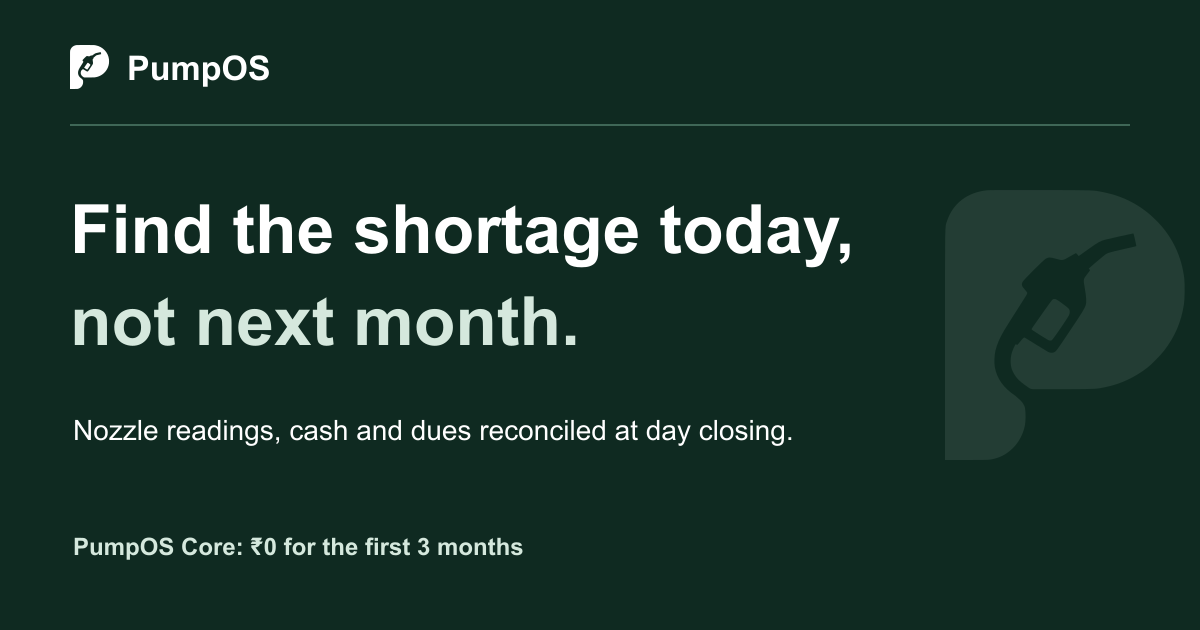
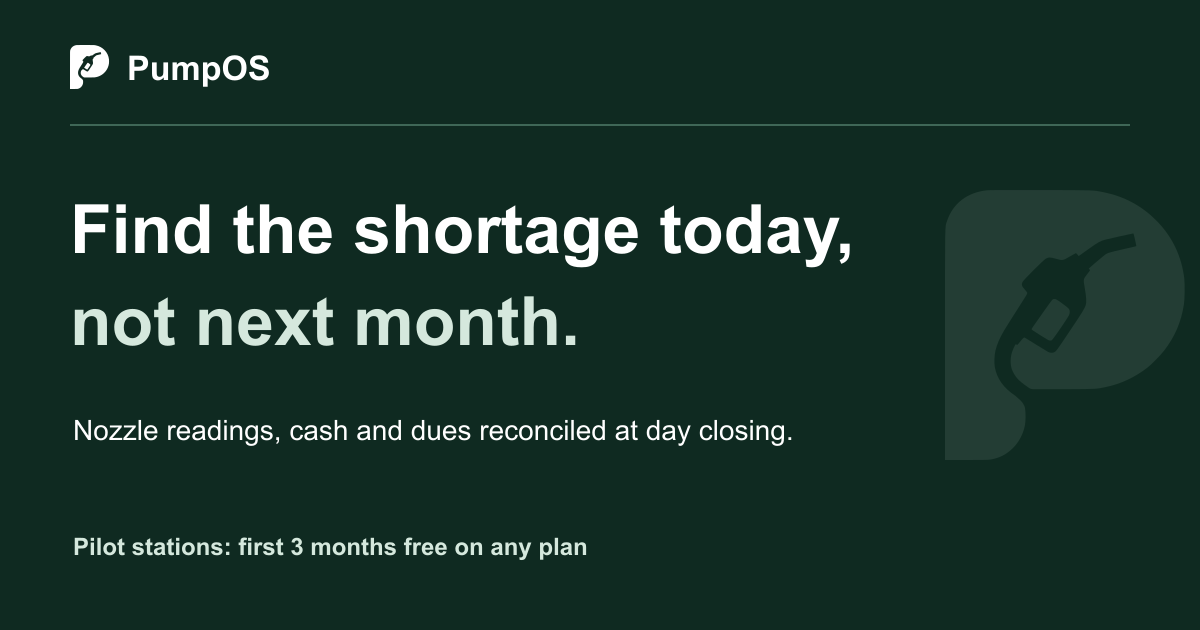
feat(marketing): offer the first 3 months free on any plan to pilot stations

Changed region(s): [[0.0617, 0.8444, 0.4933, 0.9048]]

diff --git a/apps/marketing/src/data/home.ts b/apps/marketing/src/data/home.ts
@@ -85,7 +85,7 @@ export const compareRows: [string, string, string, string][] = [
 ];
 
 export const plans = [
-  { name: 'Core', level: 'core', price: { monthly: 999, yearly: 9990 }, intro: { price: 0, label: 'for your first 3 months', then: 'then' } },
+  { name: 'Core', level: 'core', price: { monthly: 999, yearly: 9990 } },
   { name: 'Pro', level: 'pro', price: { monthly: 1599, yearly: 15990 }, popular: true, footnote: "Pro price may vary with your station's configuration." },
   { name: 'Scale', level: 'scale', price: { monthly: null, yearly: null } },
 ];
@@ -118,6 +118,6 @@ export const faqs: [string, string][] = [
   ["Will it work with my accountant's Tally?", 'Not yet. Tally export is planned. Today you can download shift summaries and the DSR as PDF and send them to your accountant.'],
   ["Is my station's data private?", 'Each station’s records are kept separate from every other customer’s, and each person sees only what their role allows. Your data is yours; you can ask us for a copy at any time.'],
   ['How long does setup take?', 'A few minutes once your tank, nozzle, product and opening-balance details are ready. We do it with you, then stay with your team for the first shift closings.'],
-  ['What does it cost after the first 3 months?', 'Core is ₹999 a month per station, or ₹9,990 a year (two months free). Pro is ₹1,599 a month, which can vary with your station’s setup. Attendants without a login are never counted.'],
+  ['What does it cost after the first 3 months?', 'Pilot stations get the first 3 months free on any plan. After that, Pro is ₹1,599 a month per station, which can vary with your station’s setup. Core is ₹999 a month per station, or ₹9,990 a year (two months free). Attendants without a login are never counted.'],
   ['Does it work for my oil company?', 'Yes. Shifts, readings, drawers and dues work the same at every fuel station. You set up your own tanks, nozzles, products and prices, whichever company supplies you.'],
 ];

diff --git a/apps/marketing/src/config.ts b/apps/marketing/src/config.ts
@@ -29,6 +29,6 @@ export const DEMO_BOOKING_URL = bookingUrl(import.meta.env.PUBLIC_DEMO_BOOKING_U
 export const WHATSAPP_NUMBER = '+919061904860';
 export const WHATSAPP_DISPLAY = '+91 90619 04860';
 export const WHATSAPP_URL = `https://wa.me/${WHATSAPP_NUMBER.replace(/\D/g, '')}?text=${encodeURIComponent('Hi, I run a pump in <town> and want to see PumpOS')}`;
-export const STARTING_PRICE = 'Core from ₹999/station/month + GST. ₹0 for the first 3 months.';
+export const STARTING_PRICE = 'From ₹999/station/month + GST. Pilot stations get the first 3 months free on any plan.';
 
 export const LINKEDIN_URL = 'https://www.linkedin.com/company/pumpos/';

diff --git a/apps/marketing/src/styles/home.css b/apps/marketing/src/styles/home.css
@@ -379,3 +379,7 @@
   .h-mbar .h-btn { flex: 1; height: 46px; font-size: 15px; padding-inline: 12px; }
 }
 @media (max-width: 900px) and (prefers-reduced-motion: reduce) { .h-mbar { transition: none; } }
+
+/* Pilot offer above the plan cards */
+.h-pilot { display: flex; flex-wrap: wrap; align-items: center; gap: 10px; margin: 20px 0 4px; padding: 12px 16px; border-radius: 12px; background: #e4f1ea; color: #18201a; font-size: 15px; }
+.h-pilot b { padding: 3px 10px; border-radius: 999px; background: #1f6a53; color: #fff; font-size: 12px; letter-spacing: .02em; }
